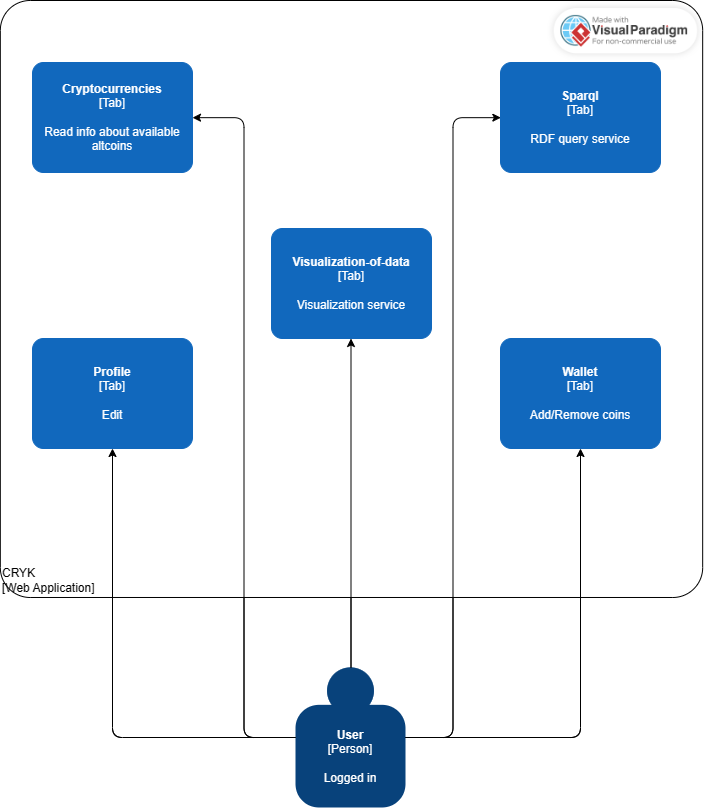
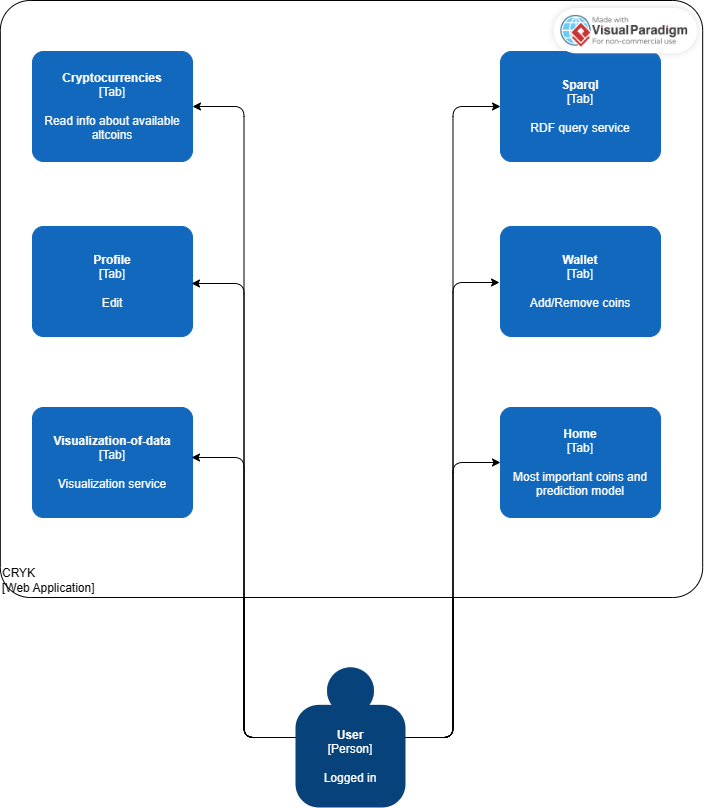
Finish flows

diff --git a/scholarly-html-gh-pages/index.html b/scholarly-html-gh-pages/index.html
@@ -108,19 +108,27 @@
         </p>
         </section>
         <section id = "external data">
-        <h3>External data</h3>
-        <p>The integration of the DOACC data and CoinGecko API has enabled us to deliver a powerful and informative system for users interested in the cryptocurrency market.
-            This information includes the symbol of the altcoin, its current price, and an illustration of the coin. To make this information more accessible and easier to work with, we have transformed the N-Triples received from 
-            the DOACC into JSON-LD. This transformation has increased the data flexibility within our system and allows us to easily access and manipulate the information as needed.
-        </p>
-        <h4>CoinGecko</h4>
-        <p>CoinGecko is a cryptocurrency data platform that provides real-time market data, charts, and insights for over 8,000 cryptocurrencies. By reaching out to CoinGecko's API, we can access up-to-date information about the price 
-            of different cryptocurrencies. This integration helps us provide valuable insights and information to our users about the cryptocurrency market. With the use of CoinGecko's API, we enhance the functionality of the project and 
-            make it more informative for our users. </p>
-        <h4>DOACC data</h4>
-        <p>The DOACC is a database of information regarding altcoins, which are cryptocurrencies other than Bitcoin. This database includes facts such as the name, trading symbol, total number of coins, target time for blocks, hashing algorithm used, date of launch, and URL for the source code repository.
-            We have integrated in our project the dataset that they provide, which is in n-triple format, in order to offer various information about the altcoins that are also available in the CoinGecko API.
-        </p>
+            <h3>External data</h3>
+            <p>The integration of the DOACC data and CoinGecko API has enabled us to deliver a powerful and informative system for users interested in the cryptocurrency market.
+                This information includes the symbol of the altcoin, its current price, and an illustration of the coin. To make this information more accessible and easier to work with, we have transformed the N-Triples received from 
+                the DOACC into JSON-LD. This transformation has increased the data flexibility within our system and allows us to easily access and manipulate the information as needed.
+            </p>
+            <h4>CoinGecko</h4>
+            <p>CoinGecko is a cryptocurrency data platform that provides real-time market data, charts, and insights for over 8,000 cryptocurrencies. By reaching out to CoinGecko's API, we can access up-to-date information about the price 
+                of different cryptocurrencies. This integration helps us provide valuable insights and information to our users about the cryptocurrency market. With the use of CoinGecko's API, we enhance the functionality of the project and 
+                make it more informative for our users. </p>
+            <h4>DOACC data</h4>
+            <p>The DOACC is a database of information regarding altcoins, which are cryptocurrencies other than Bitcoin. This database includes facts such as the name, trading symbol, total number of coins, target time for blocks, hashing algorithm used, date of launch, and URL for the source code repository.
+                We have integrated in our project the dataset that they provide, which is in n-triple format, in order to offer various information about the altcoins that are also available in the CoinGecko API.
+            </p>
+        </section>
+        <section id = "Data transformations">
+            <h3>Data transformations</h3>
+            <p>The data received from DOACC in N-TRIPLES format was transformed into a JSON-LD format to make it more manageable and to move closer to the ultimate goal of exposing data in JSON-LD and HTML+RDFa. For efficient management of the data, 
+                it was often converted back to simple JSON, facilitating communication between the front-end and back-end. If it is desired to view the data in either JSON-LD or HTML+RDFa, it is simple to make a call to our API at
+                *<i>/ontology/api/"format"/getCryptocurrenciesByName</i>* and specify the desired format. This process is illustrated in the diagram below:
+                <img src="images/data_transformation.png"/>
+            </p>
         </section>
     </section>
     <section id="architecture">
@@ -135,20 +143,6 @@
                 The application follows a very simple architecture, from a frontend client, the actions done by the user call different endpoints in 2 APIs, one with a more general purpose (generate data for visualizations based on SPARQL queries), and the other one, a semantic API that is more of a wrapper for SPARQL that has a bunch of queries ready to be used on our onthology obtained from <a href="https://doacc.github.io/">DOACC</a>.
             </p>
             <img class="image" src="images/Architecture.png" width="660" height="726">
-        </section>
-        <section id="flows">
-            <h3>Task flows</h3>
-            <h4>Login/Register</h4>
-            <p>In order for the user to gain full access to our web application, it is mandatory to create an account first. This can be achieved through either OAuth2 with google, or with our custom login/register. To add a higher degree of security, 
-                the account information is stored after applying a salt and hash upon them. <img src="images/Login_step.png"/></p>
-            <h4>General</h4>
-            <p>Upon successful login, the user's session is maintained using JSON Web Tokens (JWT). The following actions are available for the user:
-                <ul><li>Updating their personal profile.</li>
-                <li>Managing their wallet to monitor portfolio performance.</li>
-                <li>Accessing cryptocurrency information, such as price, symbol, and protocol.</li>
-                <li>Performing SPARQL queries on available RDF data.</li>
-                <li>Visualizing the comparative performance of altcoins in various formats.</li> <img src="images/General_overview.png"/></p>
-                </ul>
         </section>
     </section>
     <section id="model">
@@ -205,8 +199,7 @@
     <section id="article">
       <h3>Use cases</h3>
       <p>
-        Cryptocurrencies aim to solve a diverse range of problems commonly found in almost all industries.
-        A few use cases for which the catalogue of coins will come in handy would be:
+        Cryptocurrencies have been designed to address a variety of issues prevalent across multiple industries. These digital assets can be used in several ways, including:
       </p>
       <p>
         <ul>
@@ -215,6 +208,27 @@
             <li>Exchange</li>
         </ul>
       </p>
+      <p>Our project is focused on providing support to users with their digital assets. One of our key objectives is to enable users to effectively track and manage their digital assets. Additionally, our project also aims to educate and guide users 
+        towards making informed decisions in the cryptocurrency market. We strive to provide the necessary tools and information to help users identify the best opportunities and make the most of their investments in the cryptocurrency space.</p>
+        <h3>Task flows</h3>
+        <h4>Login/Register</h4>
+        <p>In order for the user to gain full access to our web application, it is mandatory to create an account first. This can be achieved through either OAuth2 with google, or with our custom login/register. Our authentication service is designed to enhance 
+            security by implementing a secure method for storing and validating user credentials. The process involves the use of a combination of a hash and salt on the password to generate a unique and encrypted representation of the password. This ensures that 
+            even if the password is compromised, the attacker would not be able to obtain the actual password, thus providing an extra layer of security to the user's account. Upon successful login, the user's session is maintained either through a JWT 
+            (if the option chosen is OAuth2) or via a session ID cookie.</p>
+            <img src="images/Login_step.png"/>
+        <h4>General</h4>
+        <p>The following actions are available for the user:
+            <ul>
+                <li>Updating their personal profile.</li>
+                <li>Managing their wallet to monitor portfolio performance.</li>
+                <li>Accessing cryptocurrency information, such as price, symbol, and protocol.</li>
+                <li>Performing SPARQL queries on available RDF data.</li>
+                <li>Visualizing the comparative performance of altcoins in various formats.</li> 
+                <li>See how the most important coins fare and a quick price prediction for the cryptocurrencies</li>
+            </ul>
+            <img src="images/General_overview.png"/>
+        </p>
     </section>
     <section id="visualizations-of-data">
         <h2>Visualizations of Data</h2>
